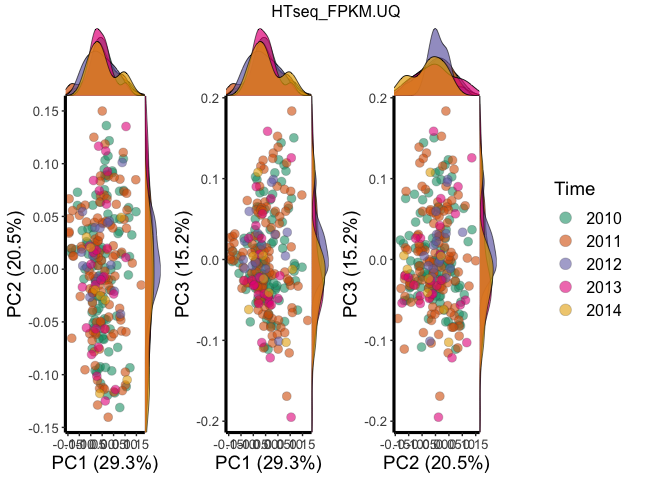
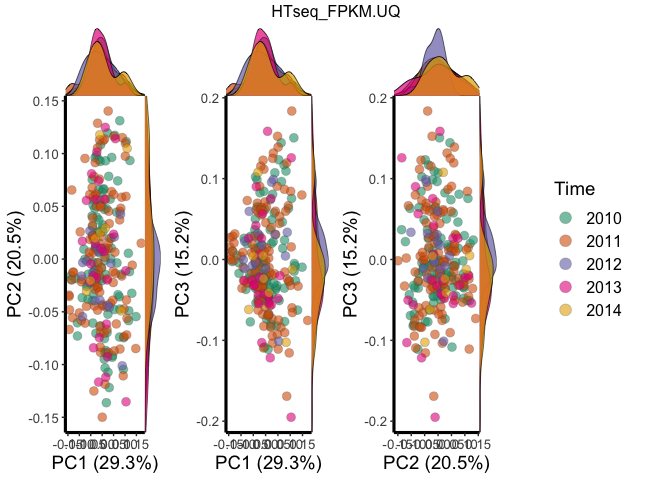
Updating plotPC and createPRPS function arguments.

diff --git a/README.md b/README.md
@@ -147,7 +147,7 @@ patterns in the plots by feature.
 ``` r
 library(ggplot2)
 library(cowplot)
-pca.plot.data <- plotPC(pca.data = pca_data, data = filtered.data3, group = "Time", plot_type = "DensityPlot", npcs = 3)
+pca.plot.data <- plotPC(pca.data = pca_data, data = filtered.data3, group = "Time", plot_type = "DensityPlot", pcs.no = c(1,2,3))
 ```
 
 <img src="man/figures/README-unnamed-chunk-14-1.png" width="100%" style="display: block; margin: auto;" /><img src="man/figures/README-unnamed-chunk-14-2.png" width="100%" style="display: block; margin: auto;" /><img src="man/figures/README-unnamed-chunk-14-3.png" width="100%" style="display: block; margin: auto;" />
@@ -176,7 +176,11 @@ plotPRPS(data = filtered.data3)
 ## PRPS Generation
 
 ``` r
-df9 <- createPRPS(data=filtered.data3, batch=c('Year', 'Plates'), purity='Purity_singscore',include.ls=T, include.purity=T, minSamplesPerBatchPS = 3, minSamplesForPuirtyPS = 3, 
+sample.info <- as.data.frame(SummarizedExperiment::colData(filtered.data3))
+expr.data <- as.matrix(SummarizedExperiment::assay(filtered.data3, 'HTseq_counts')) # gene expression data
+sample.info$ls <- colSums(expr.data) # adding library size variable
+
+df9 <- createPRPS(expr.data, sample.info, librarySize = 'ls', batch=c('Year', 'Plates'), biology = 'Subtypes', purity='Purity_singscore',include.ls=T, include.purity=T, minSamplesPerBatchPS = 3, minSamplesForPuirtyPS = 3, 
                  minSamplesForPurityPerBiology = 12, minSamplesForLibrarySizePerBatch = 6,
                  minSamplesForLibrarySizePS = 3)
 ```
